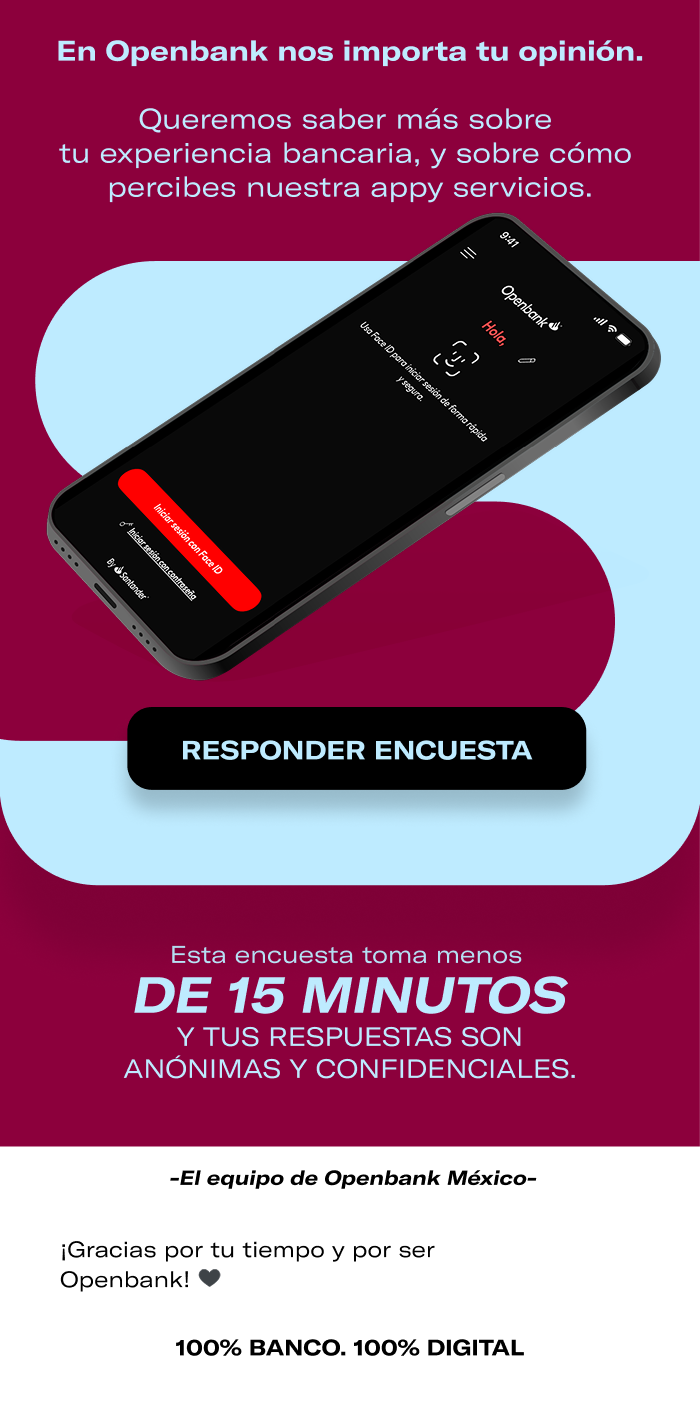
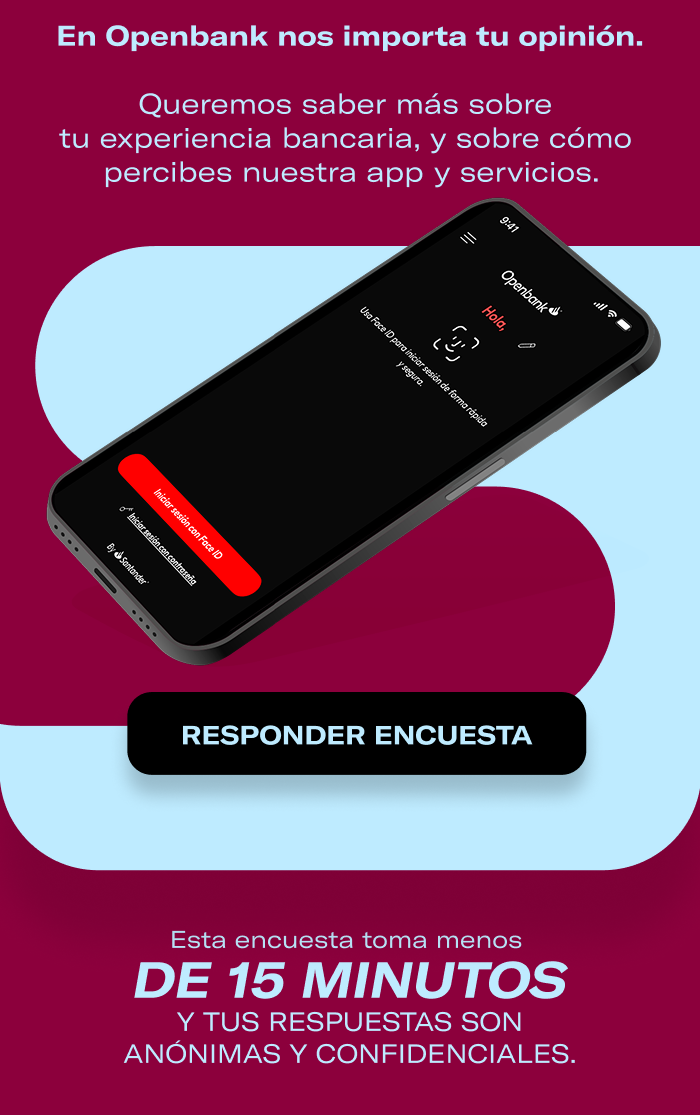
add new images to NPS

diff --git a/Mailing_NPS/index.html b/Mailing_NPS/index.html
@@ -479,6 +479,9 @@
             <tr>
                 <td><a href="#"><img src="https://openbank-newsletter-q2k5.vercel.app/Mailing_NPS/img/Body.png" width="100%" alt="SL_TOQUE" style="display:block;margin:0;"></a></td>
             </tr>
+              <tr>
+                <td><a href="#"><img src="https://openbank-newsletter-q2k5.vercel.app/Mailing_NPS/img/Cierre.jpeg" width="100%" alt="SL_TOQUE" style="display:block;margin:0;"></a></td>
+            </tr>
             
          
         </table>
